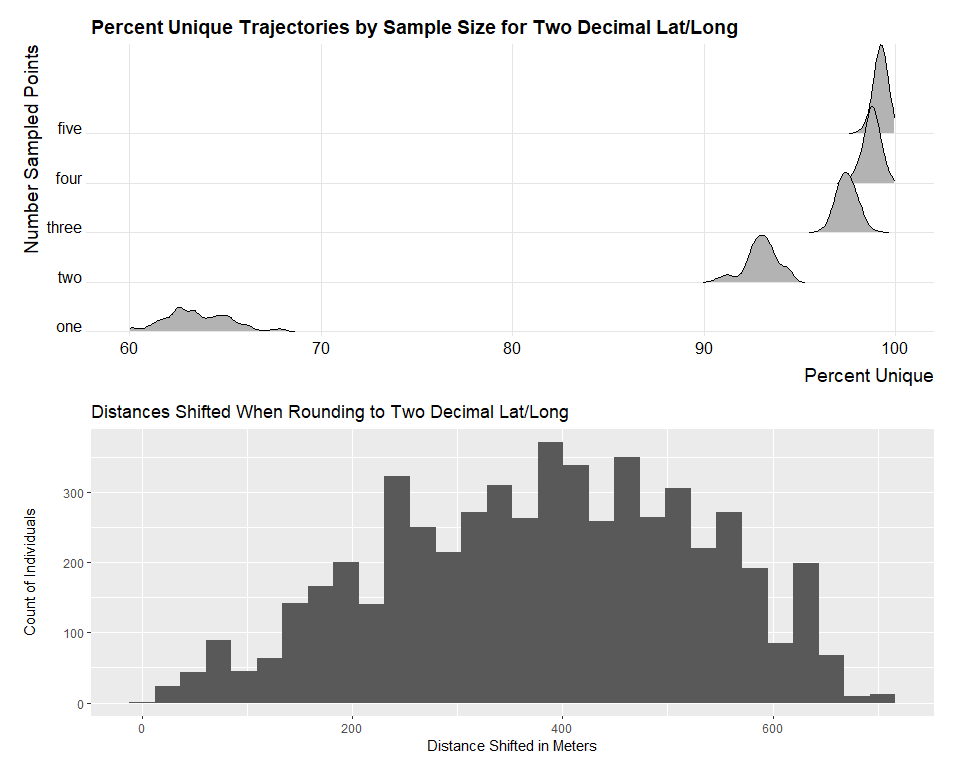
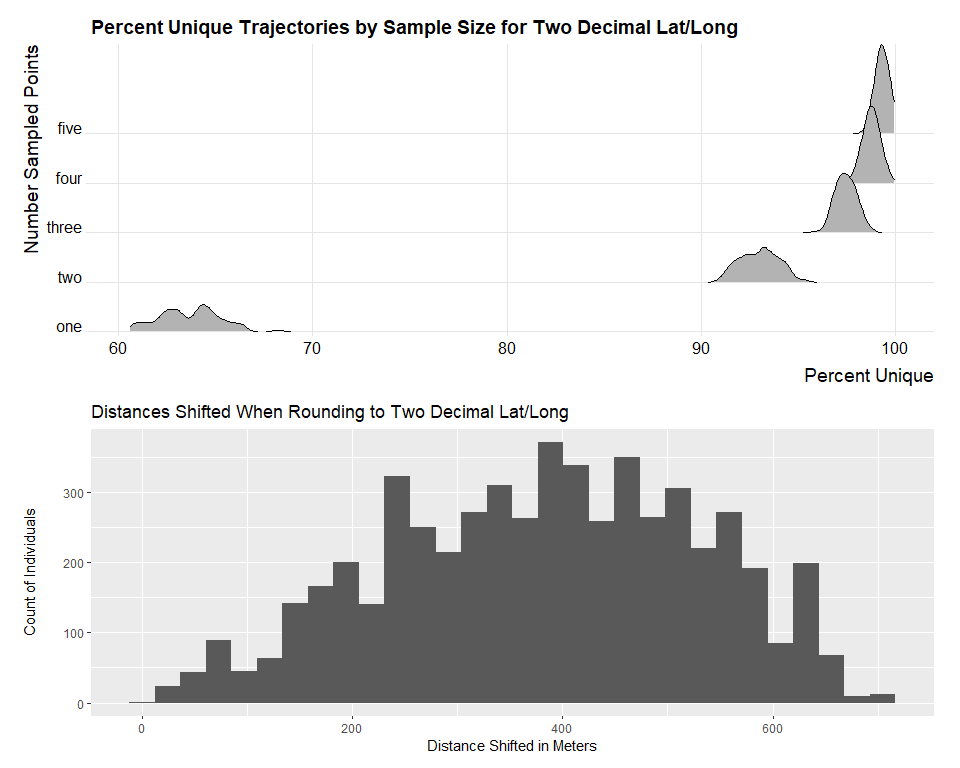
small updates

diff --git a/Code/korean_trajectories_analysis.md b/Code/korean_trajectories_analysis.md
@@ -160,7 +160,7 @@ access.
 ``` r
 up_5d <- map_dfc(1:5, function(x) trajectory_uniqueness(trajectories, num_points = x, nits = 100))
 save(up_5d, file = '../Data/pct_unique_5d.RData')
-#load('pct_unique_5d.RData')
+#load('../Data/pct_unique_5d.RData')
 ```
 
 <br>
@@ -292,7 +292,7 @@ trajectories_4d <- trajectories %>%
 
 up_4d <- map_dfc(1:5, function(x) trajectory_uniqueness(trajectories_4d[,c(1, 4, 3)], num_points = x, nits = 100))
 save(up_4d, file = '../Data/pct_unique_4d.RData')
-#load('pct_unique_4d.RData')
+#load('../Data/pct_unique_4d.RData')
 
 colnames(up_4d) <- pvar_names
 
@@ -392,7 +392,7 @@ trajectories_3d <- trajectories %>%
 
 up_3d <- map_dfc(1:5, function(x) trajectory_uniqueness(trajectories_3d[,c(1, 4, 5)], num_points = x, nits = 100))
 save(up_3d, file = '../Data/pct_unique_3d.RData')
-#load('pct_unique_3d.RData')
+#load('../Data/pct_unique_3d.RData')
 
 colnames(up_3d) <- pvar_names
 
@@ -446,7 +446,7 @@ trajectories_2d <- trajectories %>%
 
 up_2d <- map_dfc(1:5, function(x) trajectory_uniqueness(trajectories_2d[,c(1, 4, 5)], num_points = x, nits = 100))
 save(up_2d, file = '../Data/pct_unique_2d.RData')
-#load('pct_unique_2d.RData')
+#load('../Data/pct_unique_2d.RData')
 
 colnames(up_2d) <- pvar_names
 
@@ -502,7 +502,7 @@ trajectories_1d <- trajectories %>%
 
 up_1d <- map_dfc(1:5, function(x) trajectory_uniqueness(trajectories_1d[,c(1, 4, 5)], num_points = x, nits = 100))
 save(up_1d, file = '../Data/pct_unique_1d.RData')
-#load('pct_unique_1d.RData')
+#load('../Data/pct_unique_1d.RData')
 
 colnames(up_1d) <- pvar_names
 
@@ -555,7 +555,7 @@ trajectories_0d <- trajectories %>%
 
 up_0d <- map_dfc(1:5, function(x) trajectory_uniqueness(trajectories_0d[,c(1, 4, 5)], num_points = x, nits = 100))
 save(up_0d, file = '../Data/pct_unique_0d.RData')
-#load('pct_unique_0d.RData')
+#load('../Data/pct_unique_0d.RData')
 
 colnames(up_0d) <- pvar_names
 
@@ -677,13 +677,15 @@ measurements so that individual location observations are shifted, and
 the number of unique location trajectories is reduced. This comes at a
 cost of the accuracy of the location data. Outlined in the table below
 are the median values for the distance that an individual location point
-is shifted when rounding to the corresponding number of decimals.
-Different specificities may be selected depending on the use case of the
-location data and how accurate the data needs to be.
+is shifted as well as the median percentage of unique trajectories
+across all sample sizes when rounding to the corresponding number of
+decimals. Different specificities may be selected depending on the use
+case of the location data and how accurate the data needs to be.
 
-|                             | 5 decimals | 4 decimals | 3 decimals | 2 decimals | 1 decimal | 0 decimals |
-| --------------------------- | :--------: | :--------: | :--------: | :--------: | :-------: | :--------: |
-| Median Distance Shifted (m) |     0      |    2.74    |   40.45    |   390.16   | 3,989.03  | 46,553.73  |
+|                              | 5 decimals | 4 decimals | 3 decimals | 2 decimals | 1 decimal | 0 decimals |
+| ---------------------------- | :--------: | :--------: | :--------: | :--------: | :-------: | :--------: |
+| Median Distance Shifted (m)  |     0      |    2.74    |   40.45    |   390.16   | 3,989.03  | 46,553.73  |
+| Median % Unique Trajectories |   99.35    |   99.25    |   99.25    |   97.38    |   62.06   |   19.07    |
 
 We discuss some common use cases for location data in the
 [README.md](https://github.com/cdbale/Hackathon/blob/master/README.md)
